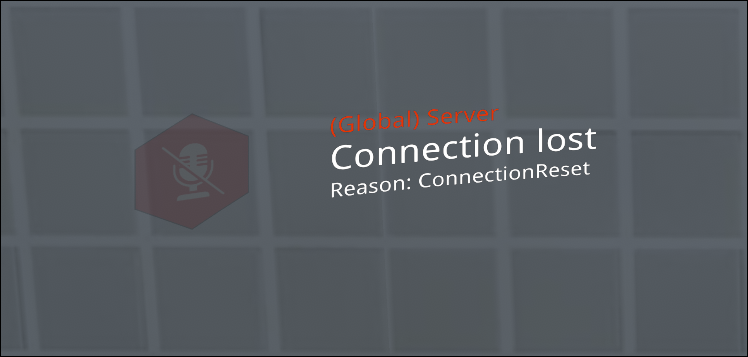
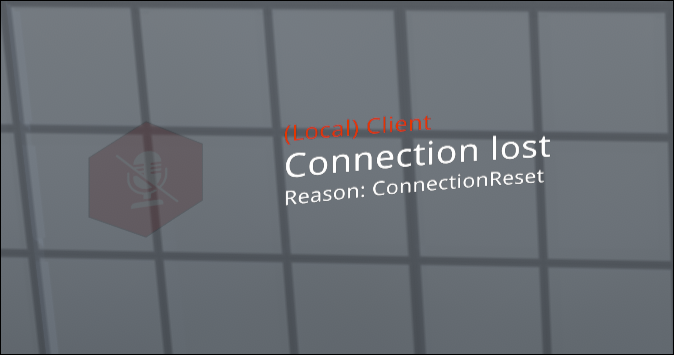
To local

diff --git a/ml_sci/Properties/AssemblyInfo.cs b/ml_sci/Properties/AssemblyInfo.cs
@@ -1,10 +1,10 @@
 using System.Reflection;
 
 [assembly: AssemblyTitle("ServerConnectionInfo")]
-[assembly: AssemblyVersion("1.0.0")]
-[assembly: AssemblyFileVersion("1.0.0")]
+[assembly: AssemblyVersion("1.0.1")]
+[assembly: AssemblyFileVersion("1.0.1")]
 
-[assembly: MelonLoader.MelonInfo(typeof(ml_sci.ServerConnectionInfo), "ServerConnectionInfo", "1.0.0", "SDraw", "https://github.com/SDraw/ml_mods_cvr")]
+[assembly: MelonLoader.MelonInfo(typeof(ml_sci.ServerConnectionInfo), "ServerConnectionInfo", "1.0.1", "SDraw", "https://github.com/SDraw/ml_mods_cvr")]
 [assembly: MelonLoader.MelonGame(null, "ChilloutVR")]
 [assembly: MelonLoader.MelonPlatform(MelonLoader.MelonPlatformAttribute.CompatiblePlatforms.WINDOWS_X64)]
 [assembly: MelonLoader.MelonPlatformDomain(MelonLoader.MelonPlatformDomainAttribute.CompatibleDomains.MONO)]

diff --git a/ml_sci/Main.cs b/ml_sci/Main.cs
@@ -17,7 +17,7 @@ namespace ml_sci
         static void OnGameNetworkConnectionClosed(object __0, DisconnectedEventArgs __1)
         {
             if((CohtmlHud.Instance != null) && (__1 != null) && (!__1.LocalDisconnect))
-                CohtmlHud.Instance.ViewDropTextImmediate("(Global) Server", "Connection lost", (__1.Error != System.Net.Sockets.SocketError.Success) ? ("Reason: " + __1.Error.ToString()) : "");
+                CohtmlHud.Instance.ViewDropTextImmediate("(Local) Client", "Connection lost", (__1.Error != System.Net.Sockets.SocketError.Success) ? ("Reason: " + __1.Error.ToString()) : "");
         }
     }
 }
